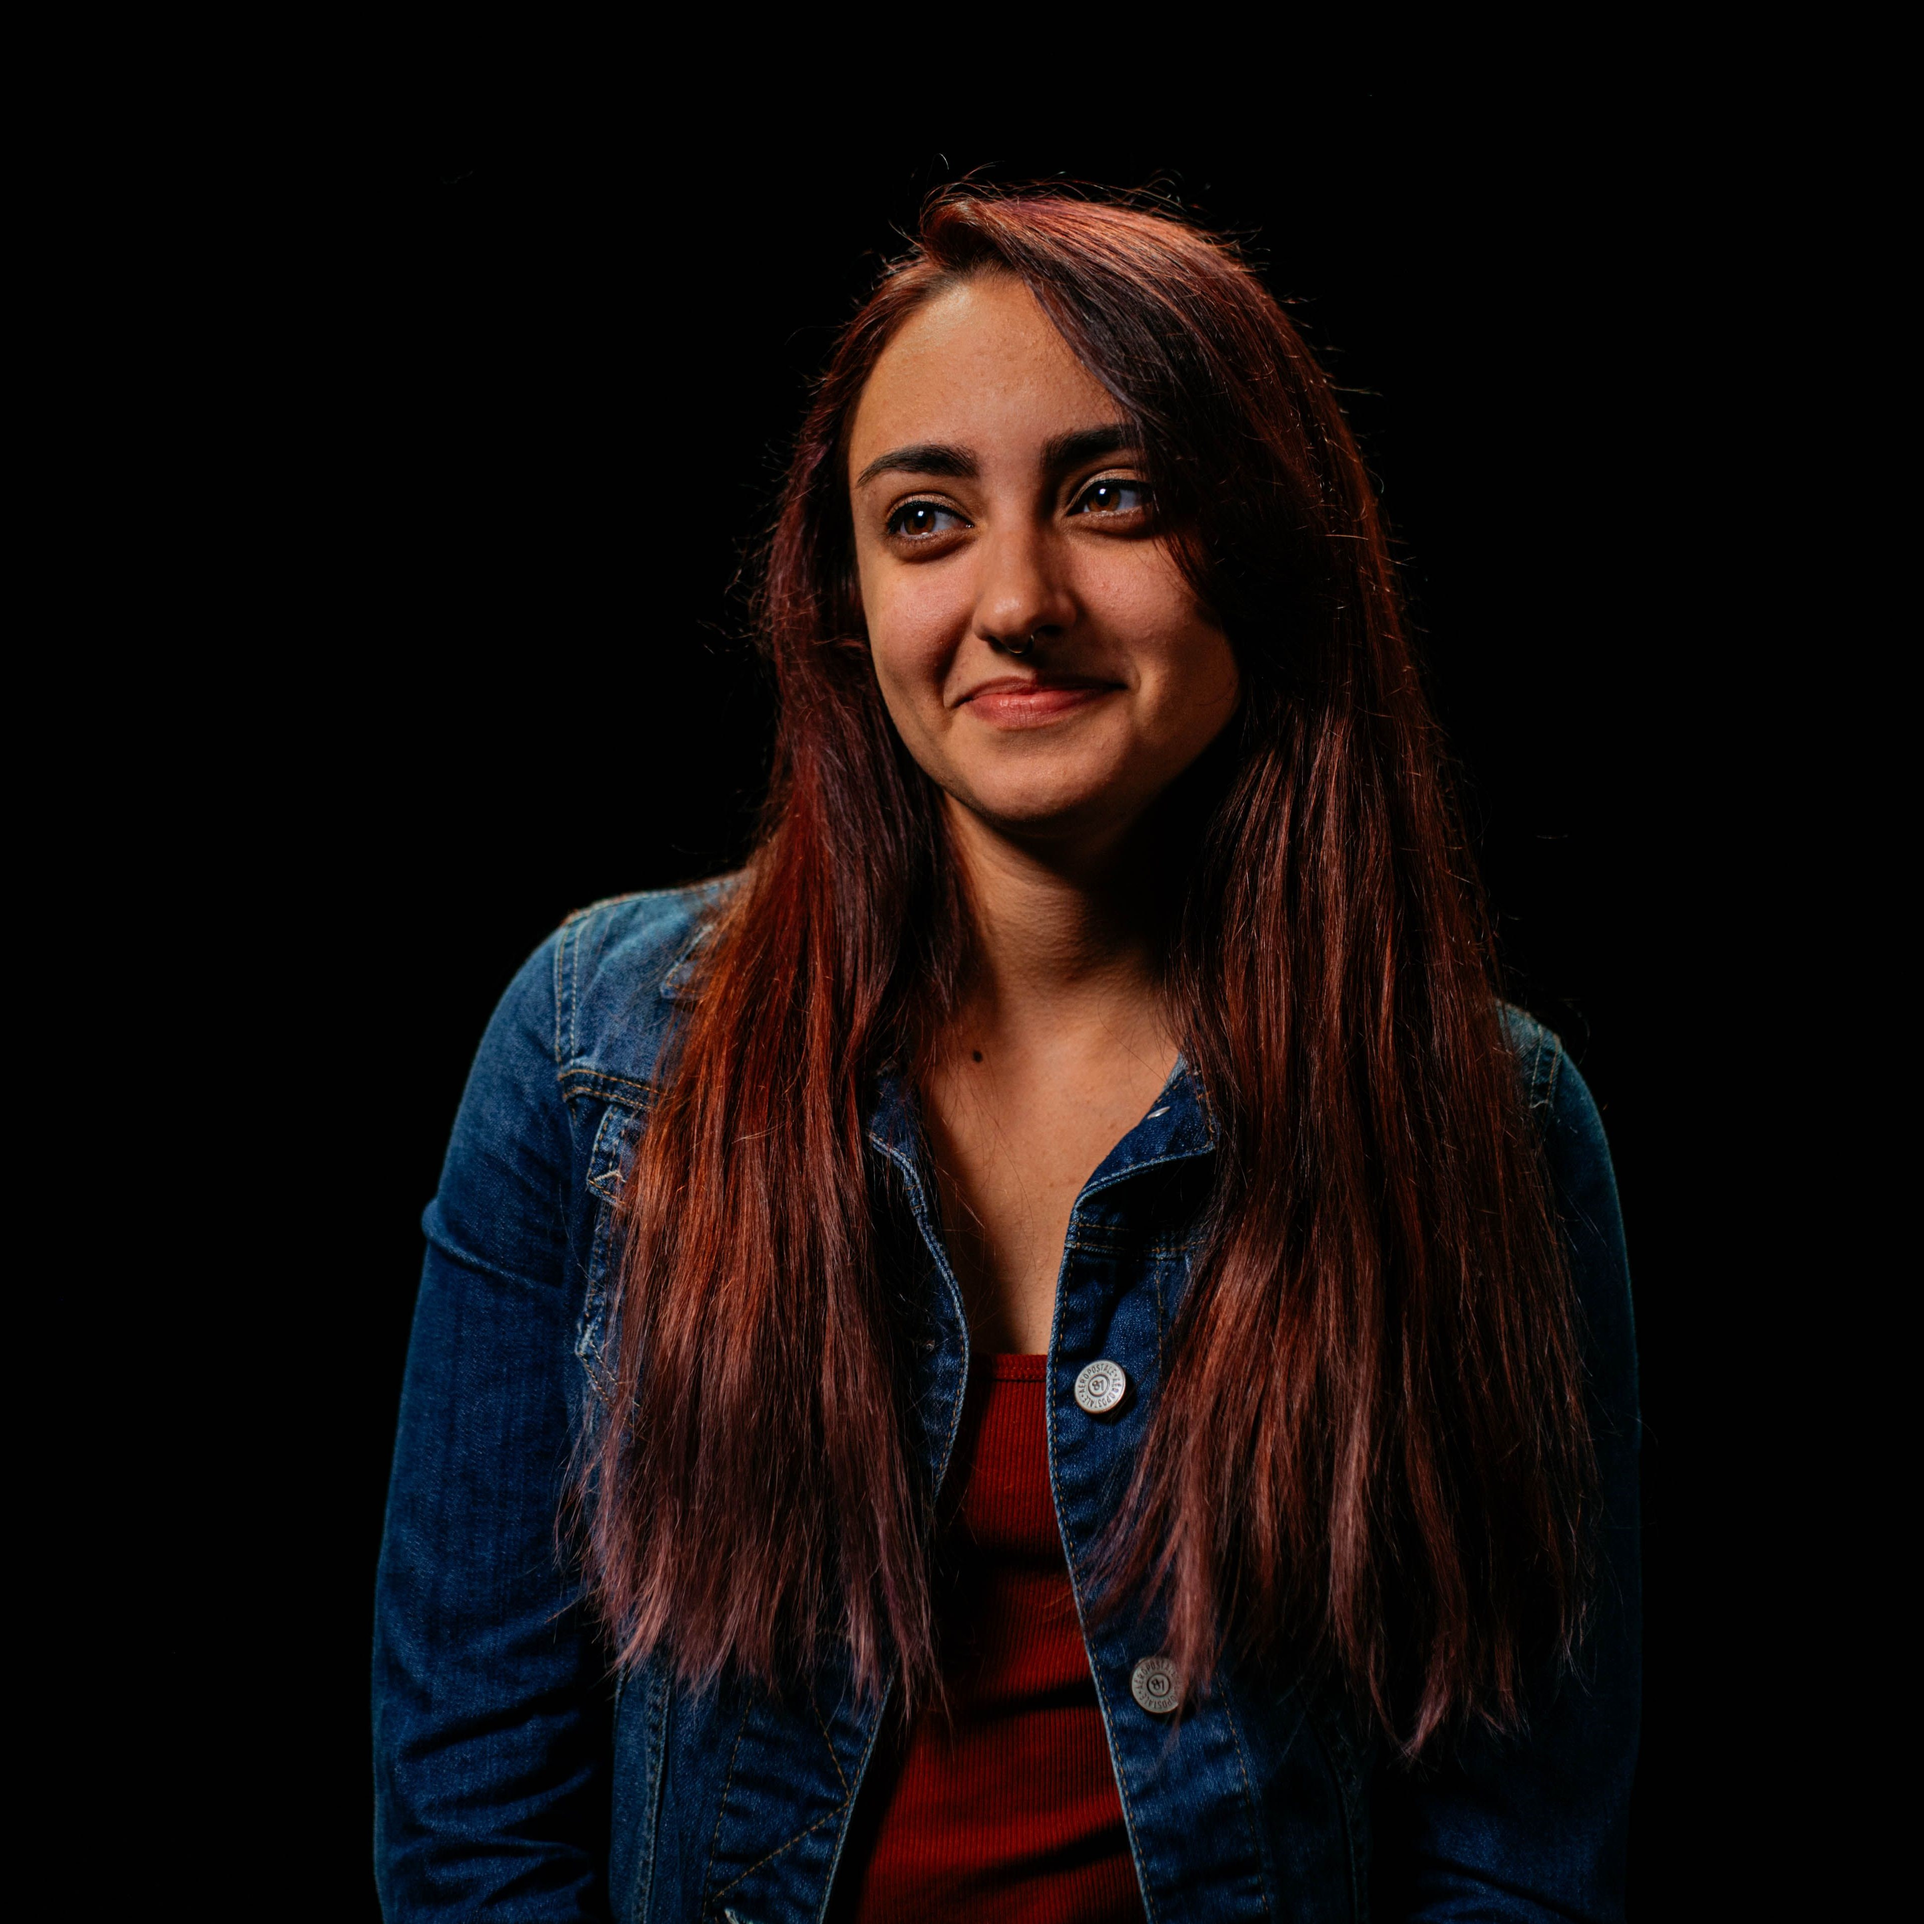
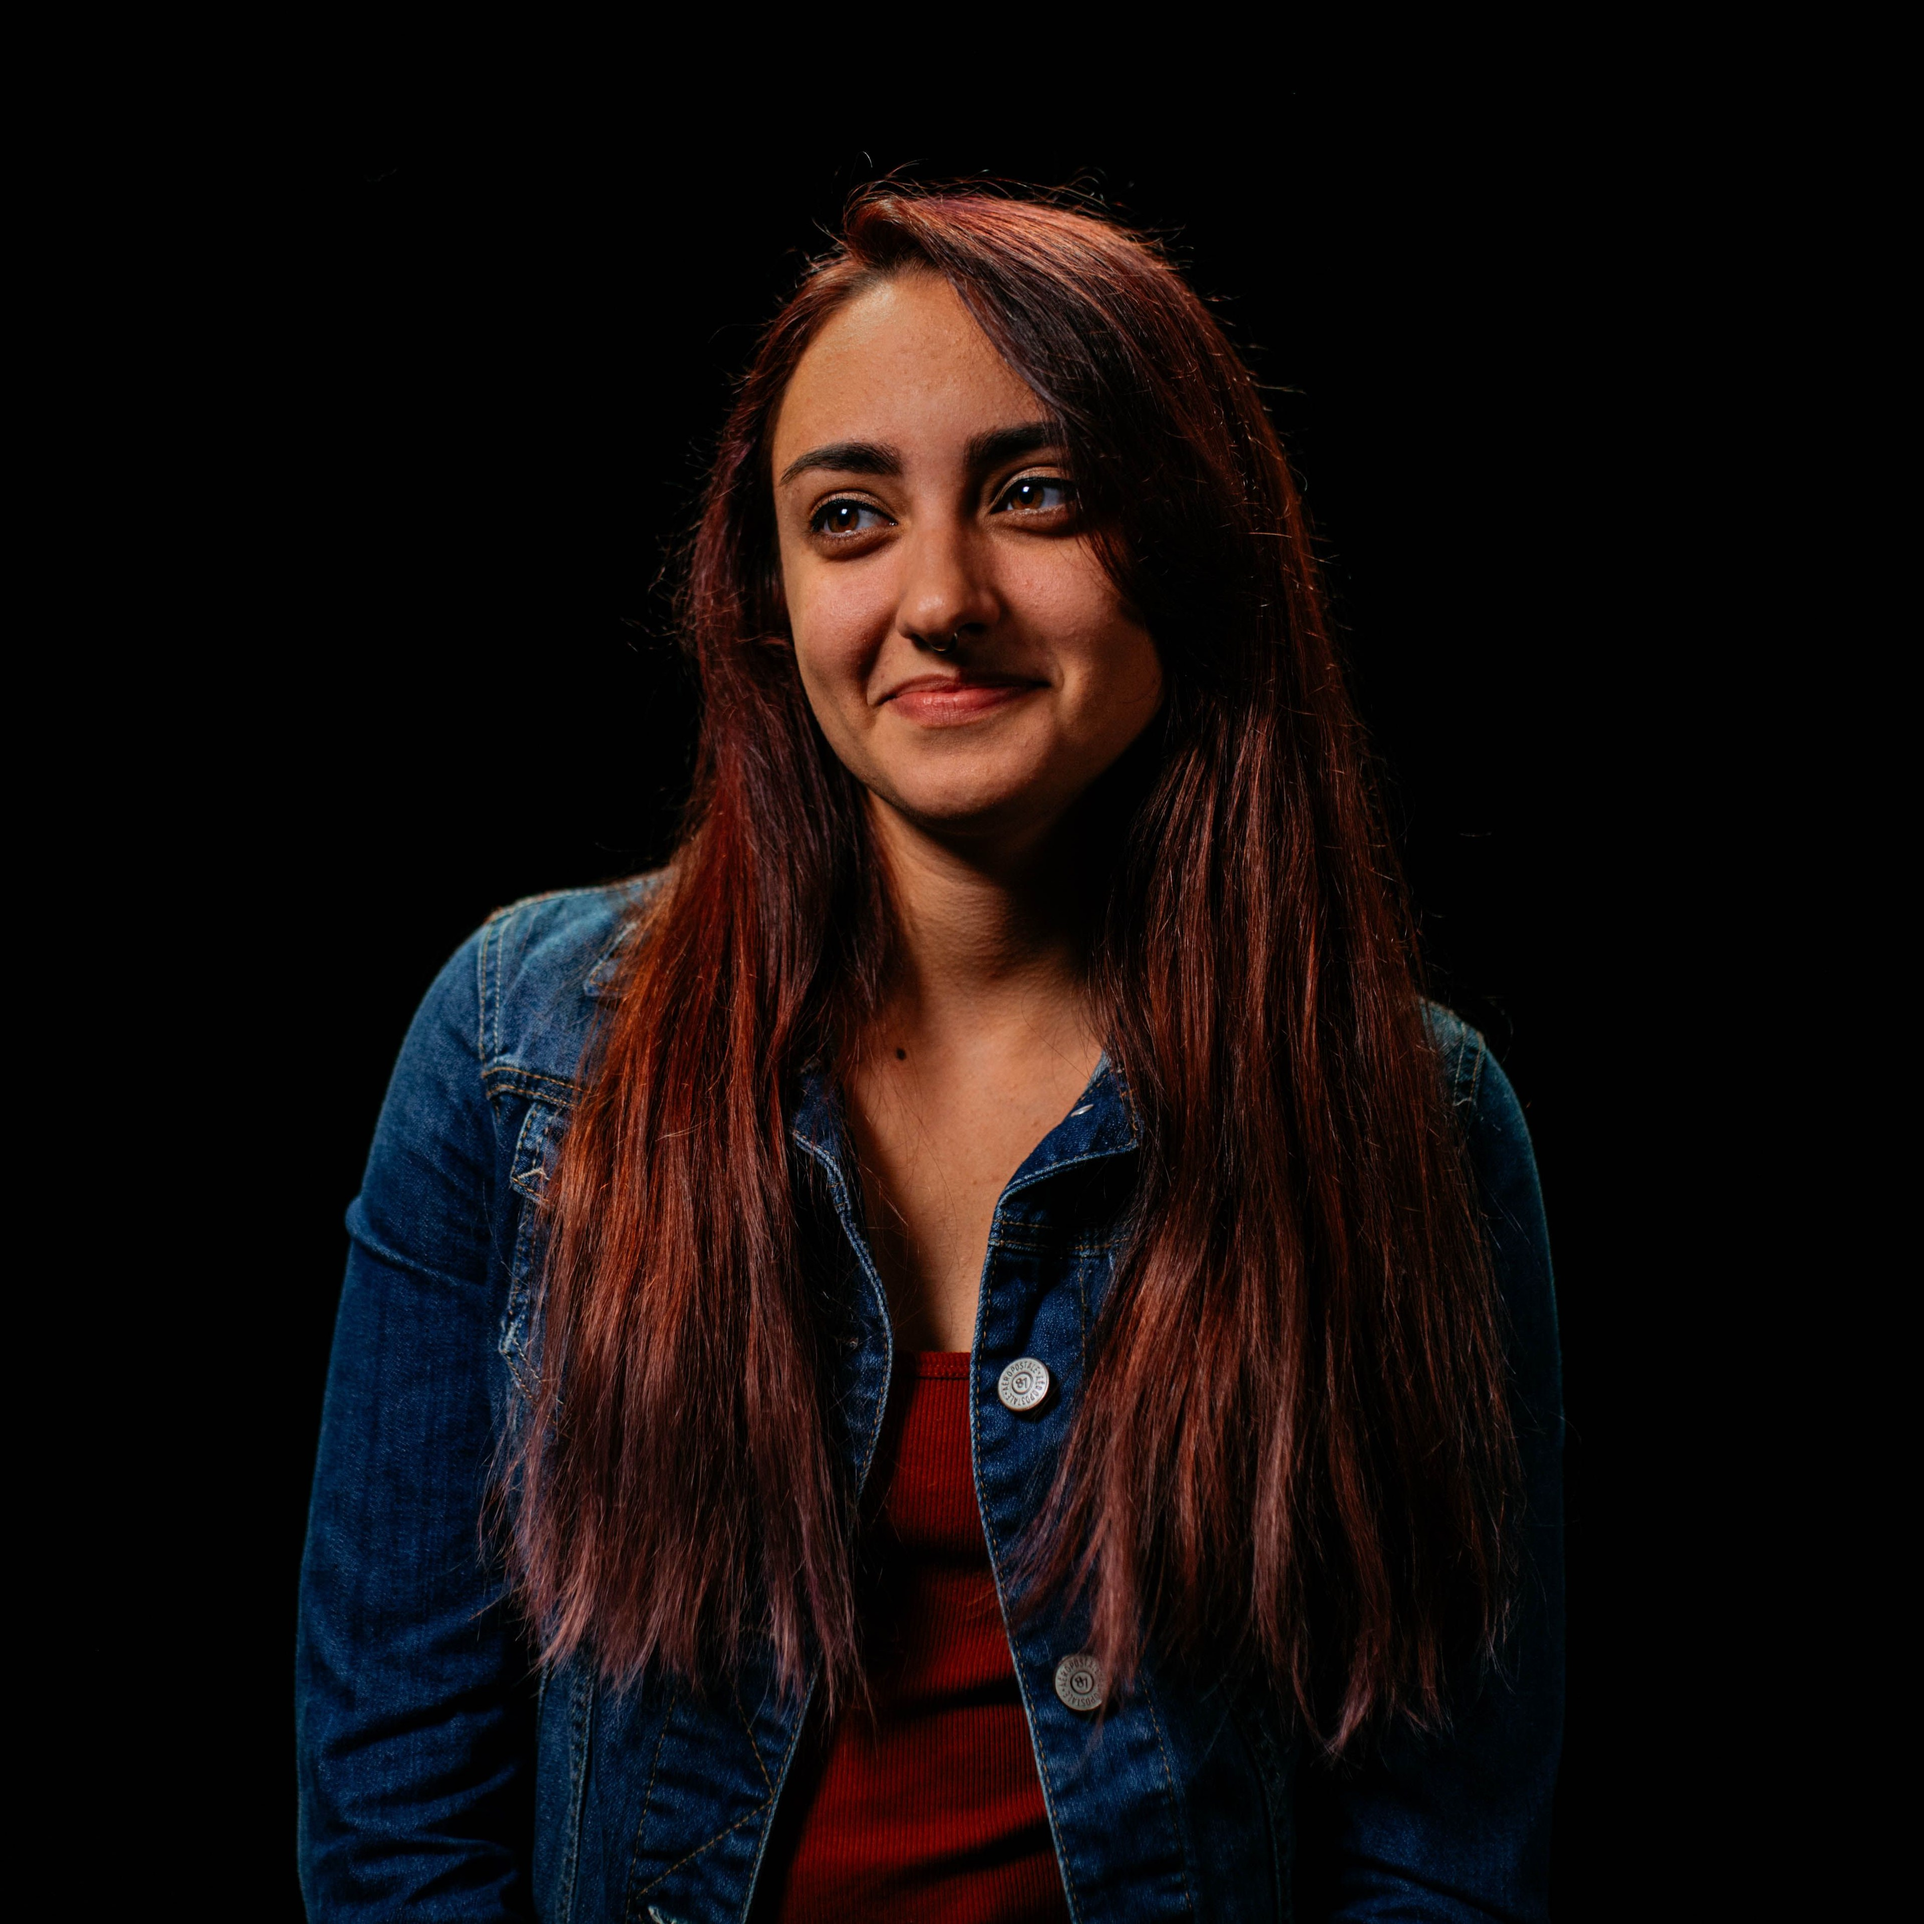
center picture, add keyboard

Changed region(s): [[0.1551, 0.0931, 0.8378, 1.0], [0.8378, 0.6206, 0.8688, 0.6516]]

diff --git a/src/components/Bio/Bio.tsx b/src/components/Bio/Bio.tsx
@@ -8,7 +8,8 @@ export default function Bio() {
         <img src={me} alt="Isabela's headshot" />
         <div className={styles.bioContainer}>
             <h1>Isabela Moreira</h1>
-            <p>Senior frontend engineer in Seattle creating experiences with code and design</p>
+            <p>Senior frontend engineer and mechanical keyboard lover in Seattle creating experiences with code and design</p>
+            <p>Current ⌨ <a href="https://www.cftkb.com/shop/mysterium-tkl-diy-keyboard-kit">Mysterium with KAT Milkshake</a></p>
             <div className={styles.followContainer}>
                 <a href="https://twitter.com/isabelacmor" rel="me" target="_blank" aria-label="Open Isabela's Twitter">
                     <h1>Twitter</h1>

diff --git a/src/pages/index.tsx b/src/pages/index.tsx
@@ -1,4 +1,5 @@
 import React from "react";
+import Helmet from "react-helmet"
 import Bio from "../components/Bio/Bio";
 import Timeline from "../components/Timeline/Timeline";
 import { EVENTS } from "../utils/events";
@@ -7,6 +8,10 @@ import styles from "./index.module.scss";
 export default function Home() {
   return (
     <div className={styles.homeContainer}>
+      <Helmet>
+          <title>Isabela Moreira</title>
+      </Helmet>
+
       <Bio />
       <Timeline
         events={EVENTS}

diff --git a/src/components/Bio/styles.module.scss b/src/components/Bio/styles.module.scss
@@ -57,6 +57,14 @@
     p {
         margin: 0;
         font-weight: 300;
+
+        a {
+            text-decoration: none;
+
+            &:hover {
+                text-decoration: underline;
+            }
+        }
     }
 
     img {

diff --git a/gatsby-config.js b/gatsby-config.js
@@ -20,5 +20,6 @@ module.exports = {
     `gatsby-plugin-sass`,
     `gatsby-plugin-typescript`,
     `gatsby-plugin-tslint`,
+    `gatsby-plugin-react-helmet`
   ],
 }
